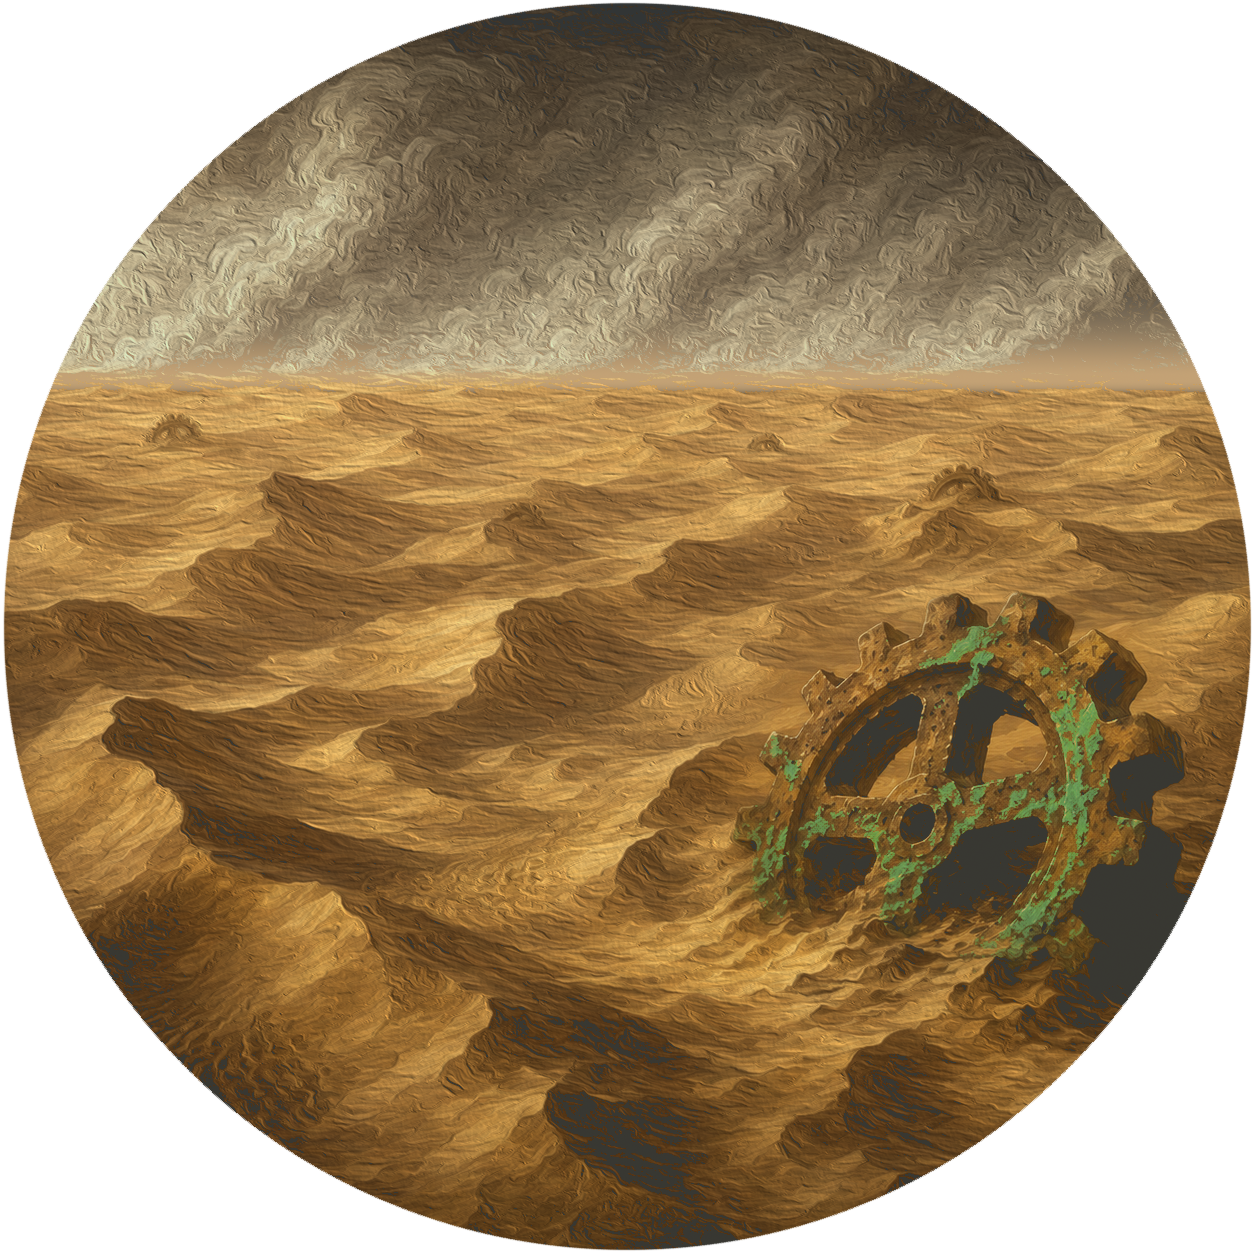
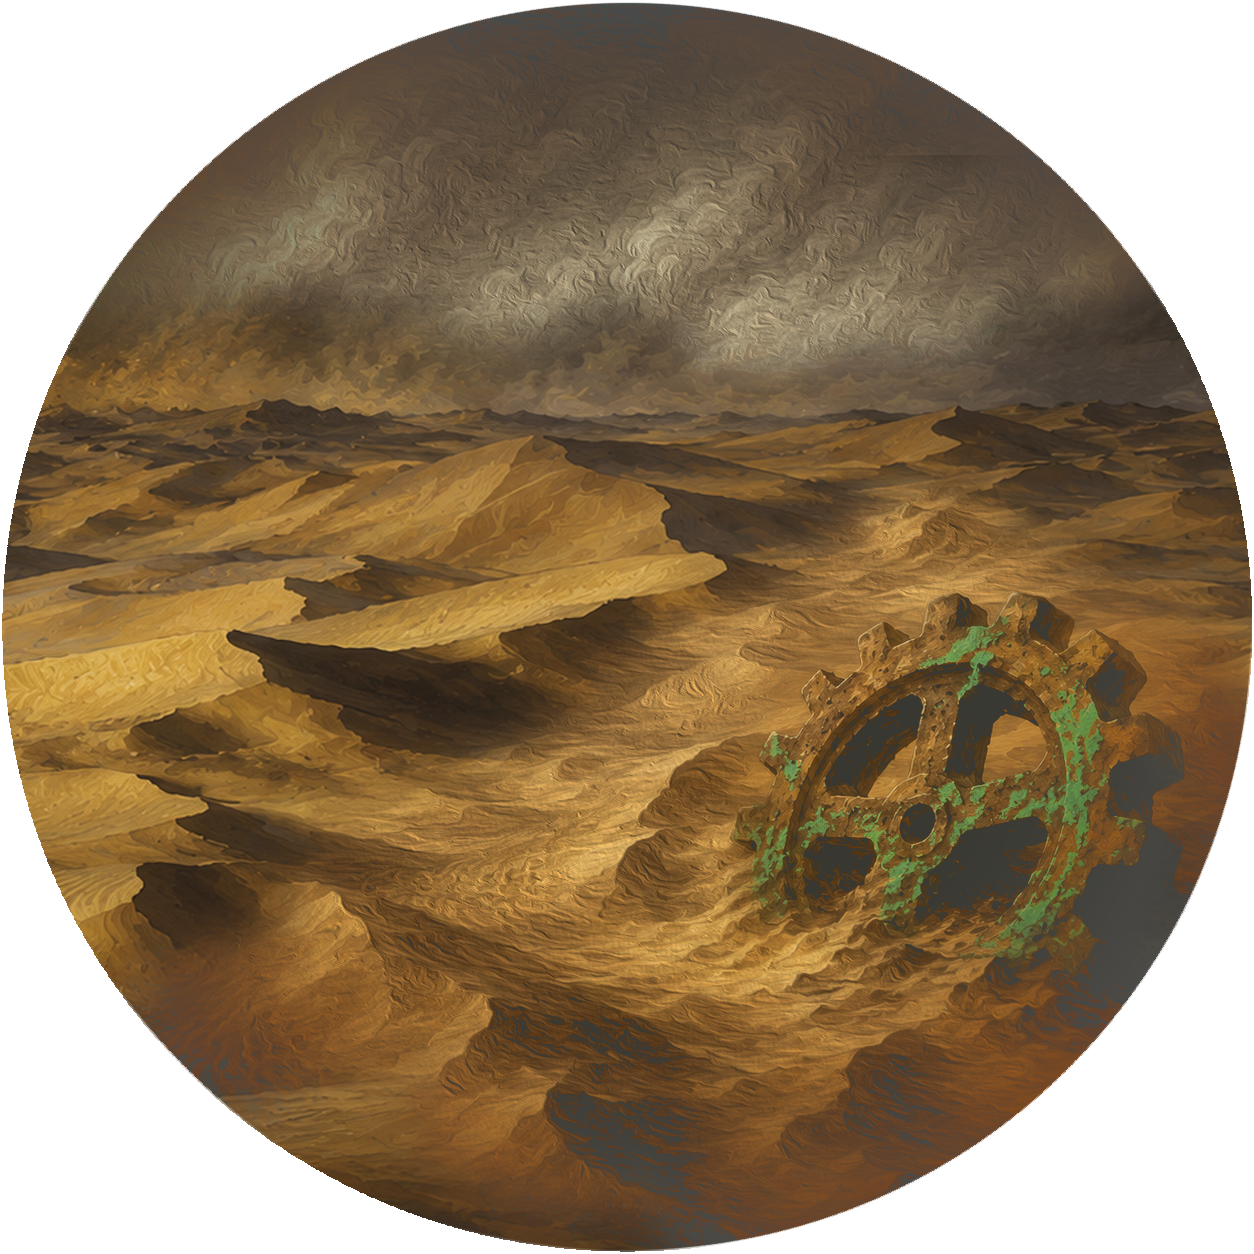
Improved interactive map UX
Added more params and better UX

diff --git a/layouts/_partials/danger-rating.html b/layouts/_partials/danger-rating.html
@@ -8,7 +8,7 @@
 {{- if $linked -}}
   <a
     class="danger-rating danger-rating--{{ $level }}"
-    href="{{ "/campaign/danger-rating/" | relURL }}"
+    href="{{ "/lore/danger-rating/" | relURL }}"
     title="{{ $rating.description }}"
     aria-label="Danger {{ $rating.name }}, level {{ $level }}. {{ $rating.description }}"
     ><span class="danger-rating__level">({{ $level }})</span>

diff --git a/content/location/copperhelm.md b/content/location/copperhelm.md
@@ -31,9 +31,9 @@ eventDate: null
 eventTime: null
 infobox:
   header: Copperhelm
-  image:
+  image: /uploads/copperhelm.png
   icon: null
-  imageSize: 0
+  imageSize: 300
   iconSize: 0
   imageMargin: ''
   iconMargin: ''

diff --git a/content/location/kharot.md b/content/location/kharot.md
@@ -31,9 +31,9 @@ eventDate: null
 eventTime: null
 infobox:
   header: Kha'rot
-  image:
+  image: /uploads/kharot.png
   icon: null
-  imageSize: 0
+  imageSize: 300
   iconSize: 0
   imageMargin: ''
   iconMargin: ''
